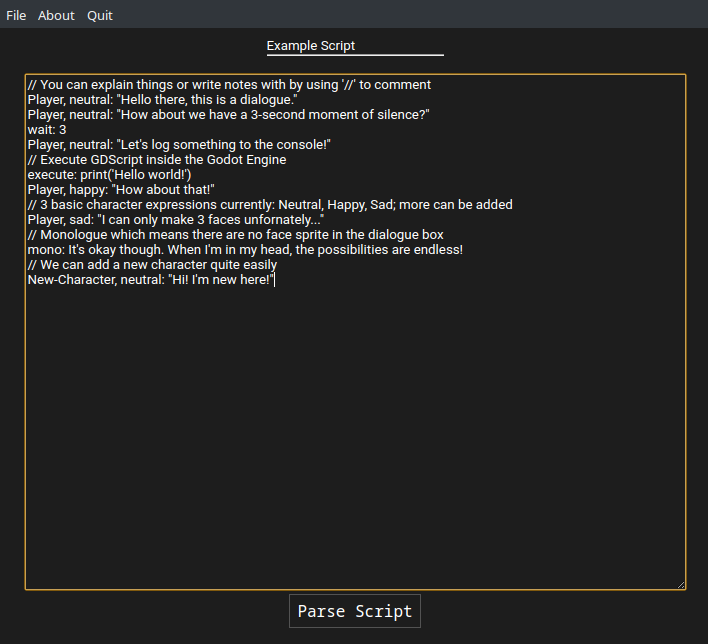
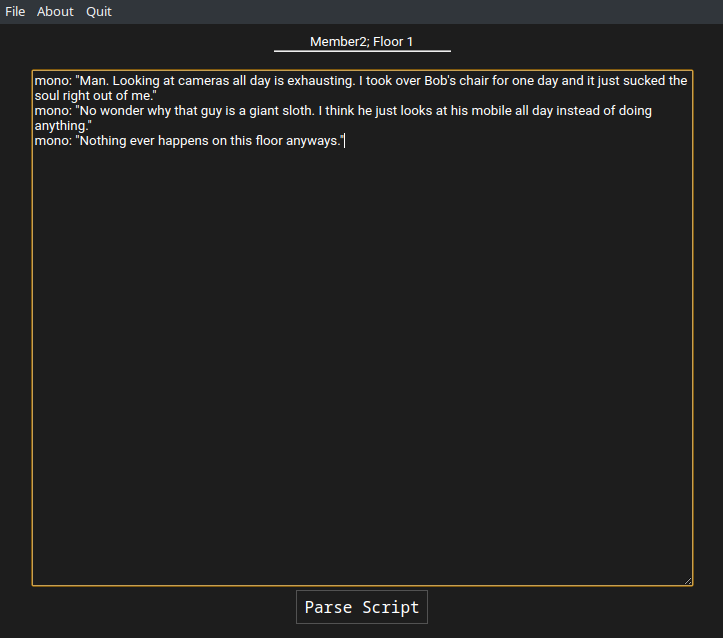
Change screenshot; parser commands now can be capitalized

Changed region(s): [[0.0, 0.0, 1.0, 0.9828]]

diff --git a/lib/parser.js b/lib/parser.js
@@ -29,10 +29,8 @@ lib.parse = (script) => {
       value: script[i].split(':')[1].trim()
     };
 
-    console.log(line.keys);
-
     // Run the line's respective keys
-    if (line.keys.includes('execute')) {
+    if (line.keys.includes('execute') || line.keys.includes('Execute')) {
       console.log('Add Execute node');
       const current_node = {
         text: line.value,
@@ -41,7 +39,7 @@ lib.parse = (script) => {
         next: (++current_node_index).toString()
       };
       node[0].nodes.push(current_node);
-    } else if (line.keys.includes('wait')) {
+    } else if (line.keys.includes('wait') || line.keys.includes('Wait')) {
       console.log('Add Wait node');
       const current_node = {
         time: Number(line.value),
@@ -50,7 +48,7 @@ lib.parse = (script) => {
         next: (++current_node_index).toString()
       };
       node[0].nodes.push(current_node);
-    } else if (line.keys.includes('mono')) {
+    } else if (line.keys.includes('mono') || line.keys.includes('Mono')) {
       // Monologues
       console.log('Creating a monologue');
       const current_node = {
